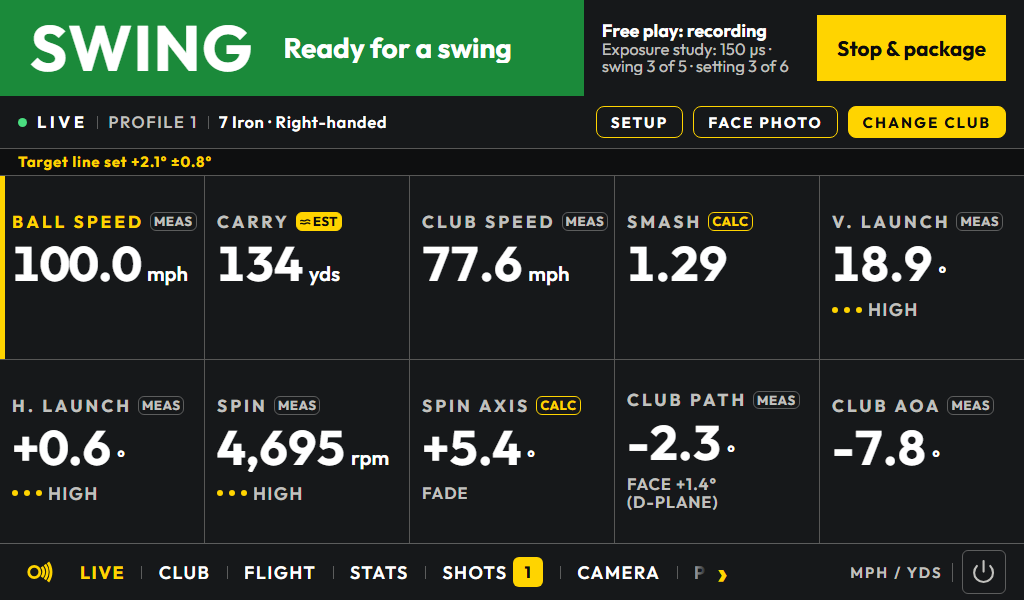
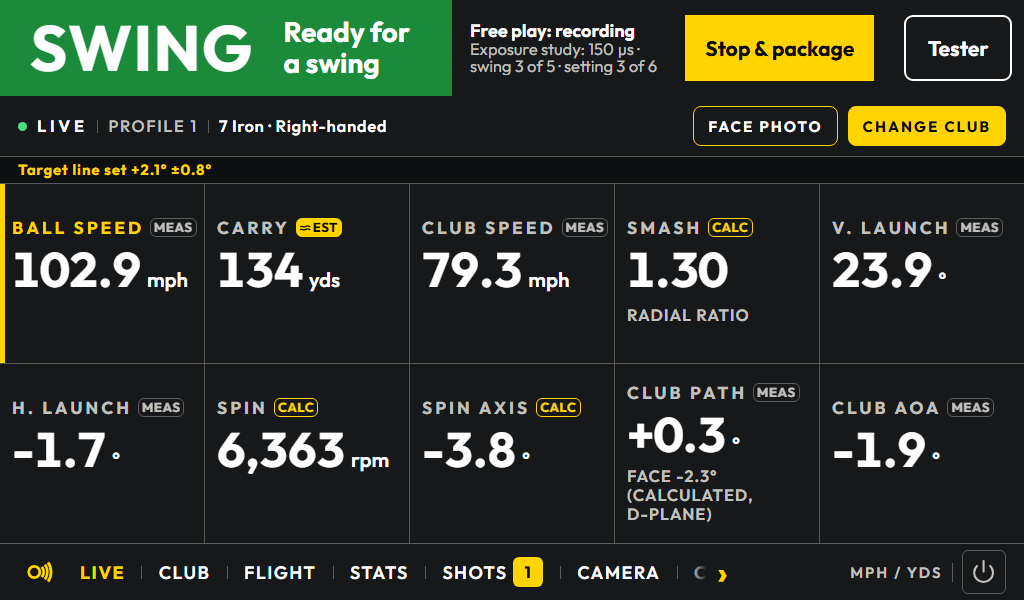
docs(tester): run the tester page on the unit's screen and switch to the kiosk
The guide's start adds --on-screen and a section on the one window: Kiosk
view, the scoreboard's Tester button, free play switching by itself, Stop &
package coming back, Done on the page. The pilot doc covers the launch, the
origins the shell allows, how the kiosk finds the tester and the screen size
knobs; the old 'fullscreen kiosk window covers the tester page' row is
replaced. The scoreboard picture shows the Tester button.

diff --git a/docs/tester-guide/README.md b/docs/tester-guide/README.md
@@ -22,11 +22,27 @@ bash scripts/start-tester.sh --host 0.0.0.0 --iwr-static-port /dev/serial/by-id/
 ```
 
 - **OPS243 on USB rather than the GPIO pins?** Add `--radar-port /dev/ttyACM0`, or whichever port it shows.
+- **Using the unit's own touchscreen instead of a phone?** Add `--on-screen`. The tester page then opens full screen on the unit by itself, once the tester is ready:
+
+  ```
+  bash scripts/start-tester.sh --on-screen --host 0.0.0.0 --iwr-static-port /dev/serial/by-id/<your ...if00-port0 entry>
+  ```
 
 Leave the terminal open; **Ctrl+C** in it stops everything. Then open the tester page:
 
-- **On the Pi's own screen:** `http://localhost:8765/`
+- **On the Pi's own screen:** start with `--on-screen` (above) and it's already there.
 - **From a phone or laptop:** `http://<pi address>:8765/`. Find the address with `hostname -I` on the Pi, and note the colon before `8765`.
+
+### On the unit's own screen: one window for both
+
+With `--on-screen`, the tester page and the scoreboard share the unit's screen and take turns in it. Each switch is one tap, and nothing restarts: the kiosk, free play and the camera keep running, and the tester page comes back where it was.
+
+- **Kiosk view** (top right of the tester page) shows the scoreboard.
+- **Tester** (top right of the scoreboard, on every tab) brings the tester page back.
+- **Start free play** switches to the scoreboard by itself when the kiosk is ready, about 20 seconds later. The line under the top bar says so while you wait.
+- **Stop & package** on the scoreboard brings the tester page back, where you wait for the package and tap **Done**.
+
+Everything is touch: tap buttons, and drag the page (or a list) up and down with your finger to scroll. The pages fit the unit's 1024×600 and 800×480 screens.
 
 ## Set up (once per spot)
 
@@ -64,7 +80,7 @@ Work down the page. Each step opens when the one before it is done, and the bar 
 
 ## Play
 
-**7. Free play.** Tap the resolution you were asked to use (**1280×800** or **640×400**), tap the club you'll hit first, then tap **Start free play**. The scoreboard opens full screen.
+**7. Free play.** Tap the resolution you were asked to use (**1280×800** or **640×400**), tap the club you'll hit first, then tap **Start free play**. The scoreboard opens full screen on the unit. If the tester page is on the unit's own screen, that same screen switches to the scoreboard by itself once the kiosk is ready, about 20 seconds later.
 
 <img src="images/7-resolution.png" width="480" alt="Step 7: 1280×800 and the 7-iron tapped, above Start free play">
 
@@ -74,20 +90,20 @@ Hit balls as normal and watch your numbers. The light at the top tells you when 
 - **Amber, WAIT:** the unit is saving the last shot or changing the camera setting. Hit when it turns green.
 - **Red, NOT READY:** something needs fixing, and it says what; for example, no ball in the box.
 
-<img src="images/kiosk-swing.png" width="960" alt="The scoreboard: green SWING, the exposure study line, Stop & package, the Setup, Face photo and Change club buttons, and a 7-iron shot's numbers">
+<img src="images/kiosk-swing.png" width="960" alt="The scoreboard: green SWING, the exposure study line, Stop & package, the Tester button, the Face photo and Change club buttons, and a 7-iron shot's numbers">
 
 <img src="images/kiosk-wait.png" width="480" alt="Amber WAIT: camera saving a clip"> <img src="images/kiosk-not-ready.png" width="480" alt="Red NOT READY: no ball in the box">
 
 - The unit runs an exposure study by itself: five swings at each camera setting. The top right shows its progress, for example **Exposure study: 150 µs · swing 3 of 5 · setting 3 of 6**, and then **Automatic exposure** once it's done. There's nothing for you to do.
 - **Switching clubs?** Tap **CHANGE CLUB** on the scoreboard before the first swing with the new club. The numbers depend on it.
 - **Face photos** aren't required, but they help a lot. Before a swing you want to photograph, spray the club face with foot-powder spray (or stick on impact tape) so the strike leaves a mark. After the swing, tap **Face photo** on the scoreboard (or **Photograph the face** in step 7). The scoreboard waits; hold the club face about 0.5 m from the lens inside the dashed box, leaning the shaft back so the face looks straight at the lens, and tap **Photograph face** (or **Skip**). If the scoreboard still says WAIT, tap **Resume**. Wipe the face before spraying it again. You don't mark anything: we do that from the photo. Recommended: put a 1/4-inch white (or black) round dot sticker on the toe of each club you photograph, clear of where you hit; it makes the photo exact even at an angle.
-- **To change your aim**, or get back to the setup page: tap **Setup** on the scoreboard. In step 4, tap **Move the aim point** and confirm it; the next shot is measured from the new line. Tap **Kiosk view** to return to the scoreboard.
+- **To change your aim**, or get back to the tester page: tap **Tester** at the top right of the scoreboard. In step 4, tap **Move the aim point** and confirm it; the next shot is measured from the new line. Tap **Kiosk view** to return to the scoreboard.
 - Labels like **EST** mark numbers we trust less. Keep hitting.
 - Re-tee anywhere in the box. If you move the unit, stop, package and set up again.
 
 ## Finish and send us the data
 
-**8. Send the package.** Tap **Stop & package** on the scoreboard whenever you're done; a part-finished study is fine. Wait for **Package ready**, then tap **Done**. Then, on the tester page, step 8:
+**8. Send the package.** Tap **Stop & package** on the scoreboard (or in step 7) whenever you're done; a part-finished study is fine. Wait for **Package ready**, then tap **Done**, on the scoreboard or in step 7. On the unit's own screen, the tester page comes back by itself after **Stop & package**. Then, on the tester page, step 8:
 
 1. Tap **Download** to save the zip on your phone or laptop. It can be about 1 GB.
 2. In your Google Drive (drive.google.com), make a new folder and upload the zip into it. **Hit beside a TrackMan or another launch monitor?** Put its export (CSV) in the same folder.
@@ -104,6 +120,9 @@ The zip is also saved on the unit in `~/OpenFlight-to-send/`.
 |---|---|
 | The tester page won't load | Check the address: a colon before `8765`, and the Pi's current address from `hostname -I`. Make sure the terminal is still running. |
 | The script stops, mentioning OpenFlight's service | Run the `sudo systemctl stop openflight.service` line it prints, then start again. |
+| The scoreboard fills the unit's screen and you want the tester page | Tap **Tester** at the top right of the scoreboard. No **Tester** button means the tester page isn't answering: check the terminal is still running. |
+| On the unit's screen, **Start free play** seems to do nothing | The scoreboard takes about 20 seconds to start; the line under the top bar says so, and the screen switches by itself when it's ready. If the line is gone and you're still on the tester page, tap **Kiosk view**. |
+| `--on-screen needs --host 127.0.0.1 or 0.0.0.0` | Use `--host 0.0.0.0` (a phone can also open the page) or leave `--host` out (only the unit's screen can). |
 | **Check the unit** names a missing sensor | Do what its row says (for the camera: check the ribbon cable at both ends), then tap **Check the unit** again. For the ranging radar: press RESET on its board, tick the RESET box and check again; still failing, unplug its USB cable for 5 seconds and plug it back in. |
 | The tilt check fails or reads the wrong way | Wrong way: put the unit down and tap the marked fix. **No lift seen** or **The lift was not clear**: lift the middle of the front edge about 2 cm and tap **Try again**. **No left-side lift seen**: lift the middle of the left side. **The left side read the wrong way**: if you did lift the left side, tell us (the front is still checked). **The unit did not sit the same way twice**: set it down flat on the same spot each time and tap **Try again**. Reads the unit on its side: stand it on its feet; if it already is, tell us. |
 | No green check in step 3 | Move the ball inside the yellow box and put more light on it. |

diff --git a/docs/camera/tester-pilot.md b/docs/camera/tester-pilot.md
@@ -40,12 +40,12 @@ prompt or annotation step. Face photos aren't required, but they help (below).
 Testers collect and send data; the maintainer handles any reference marking and
 accuracy grading.
 
-### During free play: Setup, face photos and the aim
+### During free play: Tester, face photos and the aim
 
-- **Setup** in the scoreboard's Live header brings the tester page back: the
-  window that opened the scoreboard, or (on the unit's own screen, where the
-  scoreboard covers everything) the tester page in the same window. **Kiosk view**
-  goes back to the scoreboard.
+- **Tester**, at the top right of every scoreboard tab, brings the tester page
+  back: the window that opened the scoreboard, or (on the unit's own screen, where
+  the scoreboard covers everything) the tester page in the same window. **Kiosk
+  view** goes back to the scoreboard.
 - **Face photo** (scoreboard) or **Photograph the face** (step 7) pauses free
   play: the light shows amber **WAIT · taking a face photo**, swings are not
   counted ("Not counted: paused"), and the camera holds the ladder's still-photo
@@ -255,6 +255,55 @@ bash scripts/start-tester.sh
 On the Pi itself, open `http://127.0.0.1:8765`. From another computer, use
 `http://<pi-hostname-or-address>:8765`; `127.0.0.1` on that computer points
 back to that computer, not to the Pi.
+
+### On the unit's own screen (`--on-screen`)
+
+`bash scripts/start-tester.sh --on-screen` (or `OPENFLIGHT_TESTER_ON_SCREEN=1`) runs
+the tester page on the unit's touchscreen, in the kiosk's own Electron shell,
+fullscreen and chromeless. The script starts the tester server, waits for it to
+answer, then opens `http://localhost:8765/?screen=unit`; Ctrl+C (or the server
+stopping) closes the shell too. Other options pass through to the server as before
+(`--port`, `--iwr-static-port`, ...). `--host` must be `127.0.0.1` (the default:
+only the unit's screen can open the page) or `0.0.0.0` (a phone can as well);
+anything else is refused, since the shell opens the page through loopback.
+`--dry-run` prints the server command and what the shell would open.
+
+The page and the kiosk then take turns in that one window, one tap each way, with
+no restart of the kiosk, free play or the camera:
+
+- **Kiosk view** navigates the window to the kiosk UI (`?from=tester`). Without
+  `--on-screen` it still opens the kiosk in a new window or tab, as before.
+- **Tester**, at the top right of every kiosk tab, navigates back to the tester
+  page. The kiosk shows it only while the tester that started it answers
+  (`GET /api/tester-page` on the kiosk asks the tester's `GET /api/tester/ping`;
+  a phone is offered it only when the tester listens with `--host 0.0.0.0`). It
+  replaces free play's old **Setup** button.
+- **Start free play** from the page on the unit's screen starts the kiosk with
+  `--no-browser` (`kiosk_window: "shared"`), so no second window opens; the page
+  says "The scoreboard opens on this screen when it is ready" and switches the
+  window once the kiosk answers, also after a reload. Started from a phone, free
+  play still opens the kiosk's own fullscreen window on the unit, as before.
+- **Stop & package** on a kiosk shown this way returns the window to the tester
+  page, which shows the packaging and, once the package is ready, a **Done**
+  button (it closes the kiosk, as **Done** on the kiosk does).
+
+The tester page keeps its state across the switches: the tester ID and the unit
+screen mark live in the tab's session storage, and every step is read back from
+the server, so the page reopens at the step it was on. On the unit's screen a
+finger dragging the page scrolls it, even on a display that reports the finger as
+a mouse; a tap still taps.
+
+The shell only ever navigates between the tester page's origin and the kiosk's
+(`http://localhost:8765` and `http://localhost:8080`): every other origin, and
+`file:` URLs, are refused, and pop-up windows are denied. A kiosk the tester
+starts allows its window the tester's origin too, so its **Tester** button works
+in the kiosk's own window; a plain kiosk's window stays on the kiosk.
+
+**The screen size.** Fullscreen, the shell takes whatever size the screen is; the
+pages are laid out for 1024×600 and 800×480 (and the kiosk for 800×400). To try a
+size on a desktop, run the shell windowed:
+`OPENFLIGHT_KIOSK_WINDOWED=1 OPENFLIGHT_KIOSK_WINDOW_SIZE=800x480` (the page gets
+exactly that size).
 
 The tester also writes a rotating service log to
 `~/openflight_sessions/tester_pilot/tester-server.log`. It remains available
@@ -488,8 +537,9 @@ are recorded with the capture in the session bundle.
 
 **The kiosk's own screen.** While the tester runs, the kiosk does not take over
 the screen. **Kiosk view** in the bar at the top opens the kiosk's page in a
-normal window or tab; nothing the ladder waits on (the verdict, the photo or skip,
-switching exposure, Stop) needs it. Its Live tab says what left and right are
+normal window or tab (on the unit's own screen, with `--on-screen`, the same
+window, and **Tester** comes back); nothing the ladder waits on (the verdict, the
+photo or skip, switching exposure, Stop) needs it. Its Live tab says what left and right are
 measured from: "Target line set +2.1° ±0.8°", or "Target line not set: left/right
 is from the unit's aim".
 
@@ -994,7 +1044,9 @@ every earlier frame and failure record for review.
 | `The ball box moved, so confirm the aim point again` | The target line starts at the ball, which moved | Check the yellow line is still on the target and press **Confirm the aim point** |
 | Ladder verdict red: `ball: the setup has no ball position for this camera mode` | The setup's camera never found the ball, so a swing's pictures cannot be checked against it | Press **Stop**, run the setup again until the camera finds the ball, then press **Start the exposure ladder** |
 | **Kiosk view** is greyed out | The kiosk is not running, or is between camera modes | Start the ladder; during a mode switch wait for the progress line under the top bar to finish (about 20 s). Nothing the ladder waits on needs the kiosk's window |
-| A fullscreen kiosk window covers the tester page | The kiosk was started by an older start script | Close that window; use **Kiosk view**, which opens the kiosk in a normal window or tab |
+| The scoreboard fills the unit's screen and the tester page is behind it | Free play was started from a phone (its kiosk opens fullscreen on the unit), or the tester page is not on the unit's screen | Tap **Tester** at the top right of the scoreboard: the same window shows the tester page, and **Kiosk view** goes back. To run the tester page on the unit's screen from the start, use `start-tester.sh --on-screen` |
+| No **Tester** button on the scoreboard | The tester server is not answering (its terminal stopped), the kiosk was not started by the tester, or the page is on a phone while the tester listens on loopback only | Check the tester's terminal; on a phone, start the tester with `--host 0.0.0.0` |
+| On the unit's screen, **Start free play** stays on the tester page | The kiosk takes about 20 s to start; the line under the bar says the scoreboard opens when it is ready | Wait for it; if the line has gone, tap **Kiosk view** |
 | The target is too small to see on the aim picture | The step's picture is smaller than the camera's own pixels | Press **Full screen with magnifier**, choose 3× or 4×, drag the circle near the target, then use the arrow buttons to put it on the target one camera pixel at a time |
 | `No ball in the box yet: put one in the yellow box` | The camera sees no ball in the box | Put the ball inside the yellow box on the hitting surface. If the box is not where you hit from, move the unit (1.8–2.9 m behind the ball, pointing down the target line); the box itself never moves |
 | `The ball is outside the box: move it into the yellow box` | The camera found a ball, but not inside the box | Move the ball into the box, or move the unit so the box sits over your hitting spot; **Confirm the ball in the box** opens when the green check appears |

diff --git a/docs/reference/cli.md b/docs/reference/cli.md
@@ -208,7 +208,19 @@ Handled by `scripts/start-kiosk.sh` itself rather than passed through.
 | `--port`, `--web-port` | Set the kiosk web port |
 | `--radar-port`, `--ops-port` | Forward the OPS serial port as the server's `--port` |
 | `--buffer-split` | Buffer split preset (`balanced`, `post-heavy`, `pre-heavy`) or raw segment count |
-| `--no-browser` | Start the server without opening the kiosk window (the tester always does, so its page stays on screen); `OPENFLIGHT_NO_BROWSER=1` does the same |
+| `--no-browser` | Start the server without opening the kiosk window (the tester's ladder and swings always do, so its page stays on screen, and so does free play started from the tester page on the unit's own screen); `OPENFLIGHT_NO_BROWSER=1` does the same |
+
+The kiosk shell (Electron) reads these from the environment:
+
+| Variable | Description |
+| --- | --- |
+| `OPENFLIGHT_ALLOWED_ORIGINS` | Space- or comma-separated origins the window may navigate to besides the page it opened; every other origin is refused. `start-kiosk.sh` sets the kiosk's own, plus the tester page's on a kiosk the tester started (`--tester-setup-required`, port from `--tester-control-port`, default 8765) |
+| `OPENFLIGHT_KIOSK_WINDOWED` | `1`: a normal window instead of fullscreen |
+| `OPENFLIGHT_KIOSK_WINDOW_SIZE` | The windowed page's size, e.g. `800x480` (default `1024x600`); fullscreen takes the screen's size |
+
+`scripts/start-tester.sh --on-screen` (or `OPENFLIGHT_TESTER_ON_SCREEN=1`) opens the
+tester page in the same shell on the unit's own screen; see
+[the tester pilot](../camera/tester-pilot.md#on-the-units-own-screen-on-screen).
 
 ## Related
 

diff --git a/docs/camera/tester-fixed-box.md b/docs/camera/tester-fixed-box.md
@@ -204,10 +204,15 @@ serves the new line.
 
 ## The kiosk window (2a, 3a)
 
-The tester starts every kiosk with `start-kiosk.sh --no-browser`
-(`OPENFLIGHT_NO_BROWSER=1` does the same), so the fullscreen kiosk window never
-covers the tester page; the page's "Kiosk view" button opens the kiosk UI at
-`kiosk.url`. The 1280×800 ↔ 640×400 switch keeps its restart; `kiosk.state` is
+The tester starts the ladder's and the swings' kiosks with
+`start-kiosk.sh --no-browser` (`OPENFLIGHT_NO_BROWSER=1` does the same), so the
+fullscreen kiosk window never covers the tester page; the page's "Kiosk view"
+button opens the kiosk UI at `kiosk.url`. Free play opens the kiosk's fullscreen
+window on the unit, unless the page itself is on the unit's screen
+(`start-tester.sh --on-screen`): it then asks for `kiosk_window: "shared"`, the
+kiosk starts with `--no-browser`, and the page's window switches to it. Every
+kiosk the tester starts gets `--tester-control-port`, for its **Tester** button
+(`GET /api/tester-page`). The 1280×800 ↔ 640×400 switch keeps its restart; `kiosk.state` is
 `switching_mode` with a progress message meanwhile.
 
 ## Endpoints
